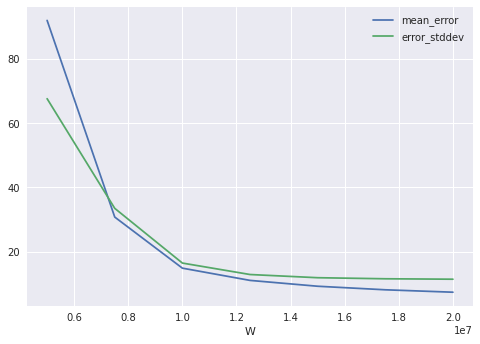
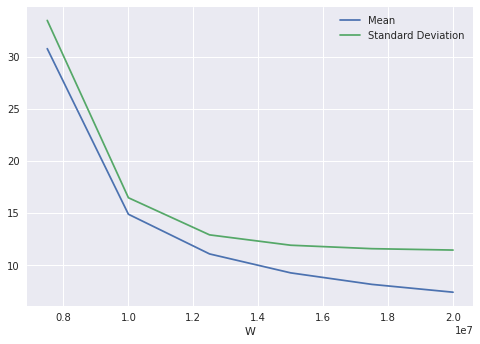
Primeira seção do cap 4

diff --git a/paper/monografia/chapter3.tex b/paper/monografia/chapter3.tex
@@ -32,20 +32,19 @@ In order to leverage the benefits of an NDS in reducing the impact of the false 
 \subsection{The \cm sketch}
 \label{sec:countmin}
 
-The \cm sketch \cite{Cormode2005} is a sublinear data structure for event frequency mapping.
-It offers two basic operations
+The \cm sketch \cite{Cormode2005} is a sublinear data structure for event count estimation. Given a stream of events $\strsetname{X} = \{(x_i, c_i) | i \in \mathbb{N}\}$, where $c_i \geq 0$ is the number of occurrences of $x_i$, it offers two basic operations
 \begin{compactenum}
-\item $update(e, f)$, and
-\item $query(e)$,
+\item $update(x, c)$, and
+\item $query(x)$,
 \end{compactenum}
-respectively for informing the occurrence of an event $e$ with frequency $f$, and for obtaining an estimate of the accumulated frequency of event $e$ up to that point.
+respectively for informing $c$ occurrences of an event $x$, and for obtaining an estimate of the accumulated frequency of event $x$ up to that point.
 
 The sketch is composed of a $d\times w$ matrix of counters $C$, and a set of $d$ pairwise-independent hash functions $h_0\ldots h_{d-1}$, such that each $h_i$ maps an event to one of the $w$ cells in row $i$.
 Updating an event is done by passing it through the hash functions for each row, and then incrementing the counters in
-the mapped positions $h_i(e)$ accordingly. 
+the mapped positions $h_i(x)$ accordingly. 
 We consider the simpler case where we only report individual event occurrences, so that counters are always incremented by one.
 Querying the structure consists in retrieving the value of the counters associated with the key event in each row,  and then returning
-the minimum value among them, that is $\min\{C[i,h_i(e)]; i=0\ldots d-1$\}.
+the minimum value among them, that is $\min\{C[i,h_i(x)]; i=0\ldots d-1$\}.
 Figure \ref{fig:countminexample} presents a visualization of the \cm sketch.
 
 \begin{figure}[htbp]
@@ -56,18 +55,18 @@ Figure \ref{fig:countminexample} presents a visualization of the \cm sketch.
 \paguso{A ideia da figura está boa, mas precisa aumentar a fonte pra não ficar ilegível. Se não couber, simplifica a parte do incremento. Muda o label de Increment para Update.}
 \end{figure}
 
-It is important to notice that the \cm might overestimate the frequency of an event due to hash collisions, since more than one event might be mapped to the same cell of the matrix. However, the pairwise independence requirement ensures that, for any row $i$ and any two distinct events $e\neq e'$,
+It is important to notice that the \cm might overestimate the frequency of an event due to hash collisions, since more than one event might be mapped to the same cell of the matrix. However, the pairwise independence requirement ensures that, for any row $i$ and any two distinct events $x\neq x'$,
 \begin{equation*}
-\prob[h_i(e)=h_i(e')] = \frac{1}{w},
+\prob[h_i(x)=h_i(x')] = \frac{1}{w},
 \end{equation*}
 with this probability being computed over all possible choices of the hash function.
 Hence, by setting $w$ appropriately, we can control the expected number of collisions per row, and likewise, by choosing a sufficiently large $d$, we can control for the probability of having at least one row without collisions for a given event. In general, for two given parameters $\epsilon, \delta \in (0,1)$, by setting 
-$w=2/\epsilon$ and $d=\log1/\delta$, we have
+$w=O(2/\epsilon)$ and $d=O(\log1/\delta)$, we have
 \begin{equation}
 \label{eq:cm-prob}
-\prob[C.\mathit{query}(e) - f(e) > \epsilon F] < \delta,
+\prob[C.\mathit{query}(x) - c(x) > \epsilon \|\strsetname{X}\|_1] < \delta,
 \end{equation}
-where $f(e)$ represents the true frequency of $e$, and $F=\sum_{e_i}f(e_i)$ is the true total event count. Put another way, we can have the estimate error relative to the total event count to be `small' (no more than $\epsilon$) with `good' (at least $1-\delta$) probability.
+where $c(x)$ represents the true frequency of $x$, and $\|\strsetname{X}\|_1=\sum_{x_i}c(x_i)$ is the true total event count. Put another way, we can have the estimate error relative to the total event count to be `small' (no more than $\epsilon$) with `good' (at least $1-\delta$) probability.
 
 \subsection{Using the \cm for counting \kmer{s}}
 \label{subsec:cm-countingkmers}
@@ -76,7 +75,7 @@ Zhang \emph{et al.} proposed using a \cm sketch to count \kmer{s} \cite{Zhang201
 
 
 Because the \kmer counts are used to determine if a \kmer should be added to the \dBG, as discussed in Section~\ref{subsec:dBG-selectingkmers}, a structure that can answer count queries can be extended to implement the membership query operation, with a \kmer $X$ being considered to be represented in the graph if $C.\mathit{query}(X).c \geq t$. 
-Assuming that the vast majority of low-frequency \kmers occur no more than once or twice in the input reads, in order for such a \kmer to be unduly considered as real (false positive), its \cm estimate would have to be off by about $t$ or more. Because the \cm overestimation error is at most $\epsilon F$ with probability at least $1-\delta$, according to Eq~\ref{eq:cm-prob}, by controlling this maximum error to be at most $t$, we have that the expected false positive rate is no more than $\delta$. This amounts to setting the \cm dimensions to $w=2/\epsilon = 2F/t$ and $d=1/\delta$.
+Assuming that the vast majority of low-frequency \kmers occur no more than once or twice in the input reads, in order for such a \kmer to be unduly considered as real (false positive), its \cm estimate would have to be off by about $t$ or more. Because the \cm overestimation error is at most $\epsilon F$ with probability at least $1-\delta$, according to Eq~\ref{eq:cm-prob}, by controlling this maximum error to be at most $t$, we have that the expected false positive rate is no more than $\delta$. This amounts to setting the \cm dimensions to $w=O(2/\epsilon) = 2F/t$ and $d=1/\delta$.
 
 
 %As the count returned by the \cm sketch can be overestimated by some error $\epsilon F$ with probability $\delta$ as established in Equation~\ref{eq:cm-prob}, we can arrive at an expression for the probability that a low-frequency \kmer will be considered to be a member of the \dBG by defining $\epsilon F = t$. This takes into account that most spurious \kmer{s} appear only once or twice in the reads, as discussed in Section~\ref{subsec:dBG-selectingkmers}. Due to the relationships between $w$ and $\epsilon$, and $d$ and $\delta$, we can decide the necessary size of the \cm sketch to achieve the desired false positive rate by making $\delta$ the desired rate, choosing $d = \log \frac{1}{\delta}$, and making $w = \frac{2}{\epsilon} = \frac{2F}{t}$.
@@ -294,7 +293,9 @@ To query the hashtable for a \kmer/node $X$, the same sequence of positions as i
 \end{algorithm}
 
 
-Adding an edge $X\stackrel{a}{\longrightarrow}Y$ to the \dBHT is similar to adding a \kmer node, and breaks down to, first, locating the slot $T[i]$ of the source node $X$, and then adding the corresponding edge label $a$ to its set of outedges. As before, this is done by setting the appropriate bit of the  4-bit pattern $T[i].E$. \remove[acho que isso aqui confunde desnecessariamente]{The \dBHT does not verify that an edge being added targets a node already present in the graph. This is done because this verification happens naturally when inserting the \kmer{s} sequentially from the reads (given \kmer{s} $X$ and $Y$ consecutive in a read, $X$ is inserted before $Y$, but the edge $X\stackrel{a}{\longrightarrow}Y$ is only inserted when $Y$ is inserted), and also in the pipeline we present, where \kmer{s} and edges are obtained by traversing the \dBCM representation of the graph and should be clear in Algorithm~\ref{alg:dbht-construct}.}
+Adding an edge $X\stackrel{a}{\longrightarrow}Y$ to the \dBHT is similar to adding a \kmer node, and breaks down to, first, locating the slot $T[i]$ of the source node $X$, and then adding the corresponding edge label $a$ to its set of outedges. As before, this is done by setting the appropriate bit of the  4-bit pattern $T[i].E$. This procedure is detailed in Algorithm~\ref{alg:ht-add-edge}. Note that if the node X is not represented in the \dBHT
+
+\remove[acho que isso aqui confunde desnecessariamente]{The \dBHT does not verify that an edge being added targets a node already present in the graph. This is done because this verification happens naturally when inserting the \kmer{s} sequentially from the reads (given \kmer{s} $X$ and $Y$ consecutive in a read, $X$ is inserted before $Y$, but the edge $X\stackrel{a}{\longrightarrow}Y$ is only inserted when $Y$ is inserted), and also in the pipeline we present, where \kmer{s} and edges are obtained by traversing the \dBCM representation of the graph and should be clear in Algorithm~\ref{alg:dbht-construct}.}
 
 
 \begin{algorithm}
@@ -412,72 +413,3 @@ We traverse \dBHT in a breadth-first manner from a starting set of \kmer{s} \str
   }
 	\Return{$Q$}
 \end{algorithm}
-
-
-\paguso{a partir daqui já deve ir pro Cap 4}
-
-\section{Experiments}
-
-\subsection{Metrics}
-
-\asq{Is accuracy the best term here? Why not precision, for example? Is there a more suitable term?}
-
-\subsubsection{Representation Accuracy of the \dBCM}
-
-The \dBCM has two aims: (1) counting the \kmer{s} from the reads, and (2) implementing a navigatable representation of a \dBG. Due to its probabilistic nature, however, it cannot achieve deterministic exactness in either of those aims. It becomes important, therefore, to evaluate how accurate it is at each of them. To do so, we compare its estimated count for each of the \kmer{s} in the reads to the \kmer{s} actual count. We also test the false positive and false negative rates of the sketch before traversal.
-
-\paragraph{Count Accuracy} To evaluate count accuracy, distribution of estimated counts agains that of actual counts. We also look at the mean and standard deviation of the count errors $\{C.query(X).c - f(X) ; X \in \readset\}$. Because the \cm sketch will only err by overestimation, the error is always a positive value, and therefore we can take its mean directly instead of using a method such as the mean squared error.
-
-\paragraph{False Positives} When evaluating the accuracy of the \dBCM, it makes sense to test how many of the spurious \kmer{s} present in \readset attained a count high enough to be considered represented in the graph. As such, we begin by defining the set of \kmer{s} from the sequence $K = \{X ; X \in \strname{S}\}$ and the set of nodes of $G$ as $V = \{X ; X \in \readset, C.\mathit{query}(X).c \geq t\}$. Then we obtain the set of false positives as $F_p = V \setminus K$ and define a false positive rate as $f_p = \frac{|F_p|}{|V|}$.
-
-\paragraph{False Negatives} Similarly to false positives, we can look at the \kmer{s} from the original sequence that are not represented in the graph because they don't reach the threshold $t$. Again we define the sets $K$ and $V$. Then, we obtain the set of false negatives as $F_n = K \setminus V$, and the false negative rate as $f_n = \frac{|F_n|}{|K|}$.
-
-\subsubsection{Graph Traversal}
-
-By implementing the \dBCM and \dBHT as navigational structures, however, we aim at reducing the impact of false positives as defined above by only querying for neighbors of known members. In this way, a false positive \kmer might never be queried if its in-neighbors are considered to not be represented in the graph, such that a true negative can stop a false positive from happening down the path. Conversely, a false negative can theoretically cause a true positive to never be queried, ultimately causing it to become a false negative as well.
-
-
-We define false positives and false negatives \emph{in traversal} in the same way as above, but changing the definition of the set $V$ to be the set of nodes \emph{visited} during traversal: $V = \{X ; X \in B.\mathit{traverse}(\strsetname{S}), B.\mathit{is\_member}(X)\}$. Then, as above, we have $F_p = V \setminus K$ and $f_p = \frac{|F_p|}{|V|}$, and $F_n = K \setminus V$ and $f_n = \frac{|F_n|}{|K|}$.
-
-\subsubsection{Time- and Space-Efficiency}
-
-We track the time needed to perform each step, as well as the total memory used.
-
-\subsection{\emph{E.~Coli}}
-
-We use the \emph{E.~Coli} genome \cite{ecoligenome} \asq{how to reference the genome?} as a benchmark through three different experiments. Firstly, we take the reference genome and generate a read set \readset without sequencing errors or reverse complements. Then, we add the presence of the reverse complements and, finally, we use the \emph{ART Illumina} toolkit \cite{Huang2011} to generate realistic reads from the genome, including sequencing errors and reverse complements.
-
-Through all of these experiments, we processed the reads by adding their \kmer{s} in a \dBCM sketch, then repeating the process for its reverse complement. The \kmer{s} were then counted exactly through the use of a hashtable, and the counts were saved along with the estimated counts from the sketch. Finally, we traversed the sketch, saving all the queried \kmer{s} along with the query result. A \dBHT was constructed as described in Section~\ref{subsubsec:dbht-construction}, and the resulting structure was traversed as well. With this we were able to analyse the metrics described above.
-
-\subsubsection{Synthetic Reads without Errors and Reverse Complements}
-
-Given the reference genome $S$, the length of each read, $L$, and the desired coverage $C$, the synthetic reads were generated by picking
-$\frac{|S| \times C}{L}$ substrings of $S$ at random. This is presented in algorithmic form in Algorithm \ref{alg:generate-reads}.
-
-\begin{algorithm}
-  \caption{Generate Reads}\label{alg:generate-reads}
-  \Input{$S$, the reference genome, $L$ the read length, $C$ the coverage}
-  \Output{A set of reads $\readset$}
-  $n \gets \frac{|S| \times C}{L}$\\
-  $\readset \gets \emptyset$\\
-  \For{$i \gets 1, \ldots, n$}{
-    $j \gets \mathit{random}(0, |S| - L)$\\
-    $\readset \gets \readset \cup \{S[j: j+L]\}$\\
-  }
-  \Return{$\readset$}
-\end{algorithm}
-
-\subsubsection{Synthetic Reads without Errors and with Reverse Complements}
-
-The same procedure was used as in the previous section, but each individual read had a 50\% chance of being generated from the reverse complement of the reference genome \strname{S}
-
-\subsubsection{Synthetic Reads with Errors}
-
-In order to simulate the reads as they would be produced by the sequencing process, we used the ART Illumina toolkit to generate
-synthetic reads from the \emph{E.~Coli} genome. The reads were generated using the following parameters:
-
-\begin{enumerate}
-\item \textbf{Sequencing System}: Illumina MiSeq v3
-\item \textbf{Read length}: \textit{250bp}
-\item \textbf{Coverage}: \textit{80x}
-\end{enumerate}

diff --git a/paper/monografia/chapter4.tex b/paper/monografia/chapter4.tex
@@ -1,8 +1,87 @@
 \chapter{Results}
 
+\section{The \dBCM as a \dBG representation}
+
+To assess how well the \dBCM can represent a \dBG when constructed from the raw sequencing reads, we first analyze how accurately it performs \kmer counting. We constructed a set of \dBCM instances with varying $w \in \{7.5M, 10M, \ldots 17.5M, 20M\}$ and $d \in \{6, 8\}$ parameters using, as an input, a set of synthetic reads generated from the \emph{E.~Coli} reference genome \cite{ecoligenome} using the \emph{ART Illumina} simulation toolkit \cite{Huang2011} with a coverage $c$ of $80x$. For each instance, we calculate individual count errors as $\Delta(X) = C.\mathit{query}(X) - c(X)$, and the mean and standard deviation of these errors across the instance. In Figure~\ref{fig:ecoli-art-dbcm-errors} we plot these two metrics as a function of $w$ for the two values of $d$.
+
+\begin{figure}[htb]
+    \centering
+    \begin{subfigure}{.5\textwidth}
+        \centering
+        \includegraphics[width=\textwidth]{figures/e_coli-error_mean_stddev-K31-D6-T40}
+        \caption{$d = 6$}\label{fig:ecoli-art-dbcm-errors-d6}
+    \end{subfigure}%
+    \begin{subfigure}{.5\textwidth}
+        \centering
+        \includegraphics[width=\textwidth]{figures/e_coli-error_mean_stddev-K31-D8-T40}
+        \caption{$d = 8$}\label{fig:ecoli-art-dbcm-errors-d8}
+    \end{subfigure}
+	\caption{\dBCM miscount mean and standard deviation as a function of $w$ for $d = 6$ and $d = 8$}\label{fig:ecoli-art-dbcm-errors}
+\end{figure}
+
+For $w \geq 10M$, we observe that both error mean and standard deviation are below $30$ regardless of $d$, such that we expect the majority, over $80\%$, of spurious \kmer{s} to have a count no greater than $60$, while real \kmer{s} are expected to have a count not much lower than $c=80$. This suggests that high- and low-frequency \kmer{s} are likely to still be discernible. To further determine how well the \dBCM can differentiate between these two categories, we select $w=10M$ and $d=6$, minimizing the memory used for the representation, and compare its count distribution for the \kmer{s} in the reads with the exact counts. This comparison can be observed in Figure~\ref{fig:ecoli-art-dbcm-counts}. Although the estimated counts distribution is shifted right due to overcount, we see two peaks, one between $2^3$ and $2^4$, and the other between $2^6$ and $2^7$, indicating the high- and low-frequency categories may still be discernible. An optimal threshold, however, is not as immediately clear as when we consider the exact count distribution.
+
+\begin{figure}[htb]
+    \centering
+    \begin{subfigure}{.5\textwidth}
+        \centering
+        \includegraphics[width=\textwidth]{figures/e_coli-kmer_frequencies-exact-K31}
+        \caption{Exact}\label{fig:ecoli-art-dbcm-counts-exact}
+    \end{subfigure}%
+    \begin{subfigure}{.5\textwidth}
+        \centering
+        \includegraphics[width=\textwidth]{figures/e_coli-kmer_frequencies-estimated-K31-W10000000-D6}
+        \caption{Estimated ($w = 12.5M, d = 6$)}\label{fig:ecoli-art-dbcm-counts-exact}
+    \end{subfigure}
+	\caption{\kmer count distribution}\label{fig:ecoli-art-dbcm-counts}
+\end{figure}
+
+To precisely determine how well we can categorize the \kmer{s} based on estimated count, we select a number of thresholds $t$ in the range $[1, 2c]$ and analyze the sensibility, i.e. percentage of true \kmer{s} idenfied as such, and false positive rate, i.e. percentage of false \kmer{s} erroneously identified as true, of using each one. The results are presented in Figure~\ref{fig:ecoli-art-dbcm-threshold-estimated}, where we can see that, without excluding any true \kmer{s} from the \dBG, we can filter out over $80\%$ of the spurious \kmer{s} from the reads by using $20 \leq t \leq 40$. However, comparing these results with the sensitivity and false positive rate if using the exact counts (Figure~\ref{fig:ecoli-art-dbcm-threshold-exact}), we can see that the number of false positives nearly doubles when keeping sensibility maximized. In the synthetic reads dataset used, this equates to nearly $9.7M$ spurious \kmer{s} being added to the \dBG, over $5M$ more than would be added using exact counts. In the following section we show that, despite this increase in number of spurious \kmer{s} represented in the \dBCM, only a fraction of them are reachable in traversal, such that this representation still succeeds in filtering out erroneous \kmer{s}.
+
+\begin{figure}[htbp]
+    \centering
+    \begin{subfigure}{.5\textwidth}
+        \centering
+        \includegraphics[width=\textwidth]{figures/e_coli-threshold_exploration-K31-exact}
+        \caption{Exact counts}\label{fig:ecoli-art-dbcm-threshold-exact}
+    \end{subfigure}%
+    \begin{subfigure}{.5\textwidth}
+        \centering
+        \includegraphics[width=\textwidth]{figures/e_coli-threshold_exploration-K31-W10000000-D6}
+        \caption{Estimated by \dBCM ($W=10M, D=8$)}\label{fig:ecoli-art-dbcm-threshold-estimated}
+    \end{subfigure}
+    \caption{Sensibility and False Positive Rate of a \dBCM with $w = 12.5M$ and $d = 6$ as a function of the presence threshold $t$}\label{fig:ecoli-art-dbcm-threshold}
+\end{figure}
+
+\section{Further filtering through traversal}
+
+AS discussed in Section~\ref{sec:pipeline}, we expect many of the spurious \kmer{s} inserted into the \dBG due to high count to be disconnected from the main component of the graph, composed of the real \kmer{s}. As such, the \kmer{s} categorized as high-frequency can further be filtered by traversing the graph from a starting set sampled from them
+
+2. Navegação pelo dBCM
+2.1. Navegação consegue melhorar FPR sem alterar sensibilidade?
+Fig. FPR \& Sensibility X W (t = 40) [navegação]
+2.3. Memória
+2.3.1. Teórico
+2.3.2. bits / kmer baseado nos \kmer{s} da navegação
+2.4. Tempo
+2.4.1. Construir, navegar
+
+3. Navegação da dBHT
+3.1. O quão próximo a dBHT consegue se manter da FPR do dBCM?
+Fig. FPR \& Sensibility X alpha (W = 10M, D = 6 e t = 40) [navegação]
+- $0.5 \leq alpha \leq 0.9$ (passo 0.05)
+2.3. Memória
+2.3.1. Teórico
+2.3.2. bits / kmer baseado nos \kmer{s} da navegação
+2.4. Tempo
+2.4.1. Construir, navegar
+
+
 \section{Theoretical Results}\asq{bad name}
 
 \asq{This feels like it should be in methodology?}
+
+$F => \|\readset\|_1$
 
 Relationship between $c$, $t$, and $W$: a false positive occurs when $C.\mathit{query}(X).c - f(X) \geq t$, so we set $\epsilon F < t \rightarrow \epsilon < \frac{t}{F}$ in order to use Equation~\ref{eq:cm-prob} to establish a false positive rate. Because of the relationship $W = \frac{2}{\epsilon}$, we can put $W$ in terms of $t$: $W > \frac{2F}{t}$. Finally, we expect $F \approx c \times |\strname{S}|$, such that $W > \frac{2 \times c \times |\strname{S}|}{t}$.
 
@@ -16,7 +95,7 @@ In practice we will show that this is an overestimate, as the sketch seems to pe
 
 We started by evaluating how well the \dBCM performs the task of \kmer counting, comparing the distribution of frequencies, and observing the average error. However, because the goal of this data structure is to allow categorization of \kmer{s} as high- or low-frequency, more than obtaining exact \kmer counts, we take a special interest in evaluating how much the miscounts impact in differentiation between the two categories. To do this, we categorize the \kmer{s} according to a series of thresholds $t$, using both the exact frequency for each \kmer and the frequency estimated by the \dBCM. Let $H$ be the set of \kmer{s} categorized as high-frequency, and $K$ be the set of \kmer{s} found in the reference genome \strname{S} and its reverse complement \strname{\overline{S}}. We then generate $F_P = H \setminus K$, the set of spurious \kmer{s} that were considered to be high-frequency (false positives), and $F_N = K \setminus H$, the set of true \kmer{s} that were not considered to be high-frequency (false negatives). By analysing how the sizes of these sets varies as a function of $t$ we find the optimal threshold for differentiating the two categories.
 
-Because the parameter $W$ has an important impact on the magnitude of the expected overcount, we analyze how they affect the error by comparing the mean and standard deviation for this metric accross varying values of $W$.
+Because the parameter $W$ has an important impact on the magnitude of the expected overcount, we analyze how they affect the error by comparing the mean and standard deviation for this metric across varying values of $W$.
 
 We have used $D = 8$ as it gives a high degree of confidence in Equation~\ref{eq:cm-prob} (0.04\% chance of a miscount being greater than $\epsilon F$).
 

diff --git a/paper/monografia/revision.tex b/paper/monografia/revision.tex
@@ -1,1 +1,1 @@
-\newcommand{\Revision}{79aacf9}
+\newcommand{\Revision}{a90aaed}
